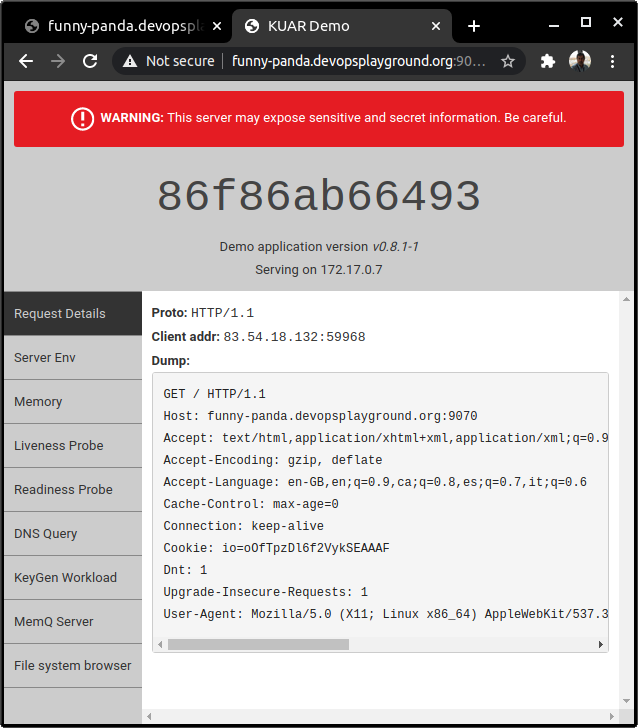
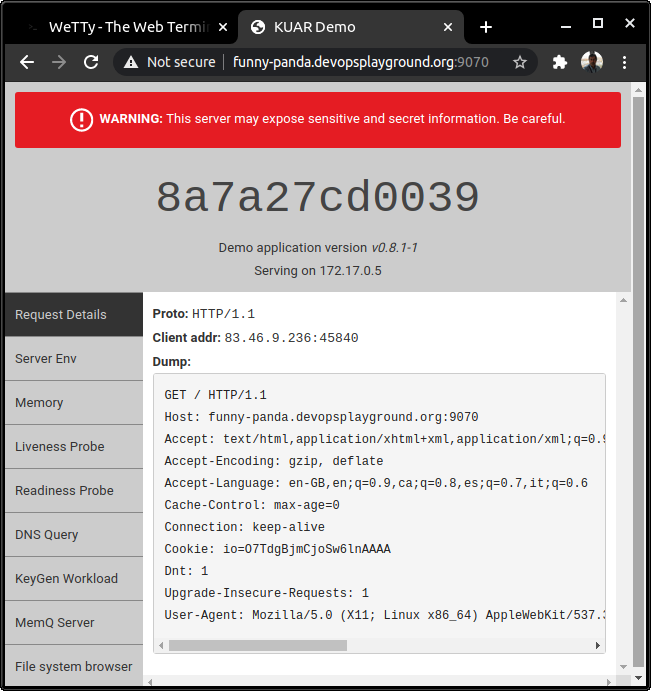
Lab3 README updated

Changed region(s): [[0.0, 0.0, 1.0, 1.0], [0.2382, 0.2431, 0.7445, 0.3039], [0.8041, 0.699, 0.8636, 0.7294]]

diff --git a/3-caddy-sidecar/README.md b/3-caddy-sidecar/README.md
@@ -61,7 +61,7 @@ Check if Kuard is running:
 curl http://localhost:9070/healthy
 ```
 
-And from your browser, you need to use your assigned FQDN (`http://<your-panda>.devopsplayground.org`), you should see this:
+And from your browser, you need to use your assigned FQDN (`http://<your-panda>.devopsplayground.org:9070`), you should see this:
 
 ![](../img/mtls-3-caddy-2-kuard.png)
 
@@ -109,11 +109,16 @@ content-length: 0
 date: Sun, 07 Mar 2021 16:45:15 GMT
 ```
 
-From your local computer using a browser call to Kuard:  
+From a browser open this URL `http://<your-panda>.devopsplayground.org:9090` to call to Kuard:  
 
 ![](../img/mtls-3-caddy-3-kuard-caddy-proxy.png)
 
-In the Wetty terminal in your remote workstation get the caddy logs to check what is happening:
+Seems that Caddy is exposing Kuard over HTTPS, then switch to HTTPS using this URL `https://<your-panda>.devopsplayground.org:9070`. You should see this:
+
+![](../img/mtls-3-caddy-4-kuard-caddy-err-ssl-protocol-error.png)
+
+
+Let's check the logs. In the Wetty terminal get the caddy logs to check what is happening:
 
 ```sh
 CONTAINER_ID=$(docker inspect --format="{{.Id}}" caddy3)
